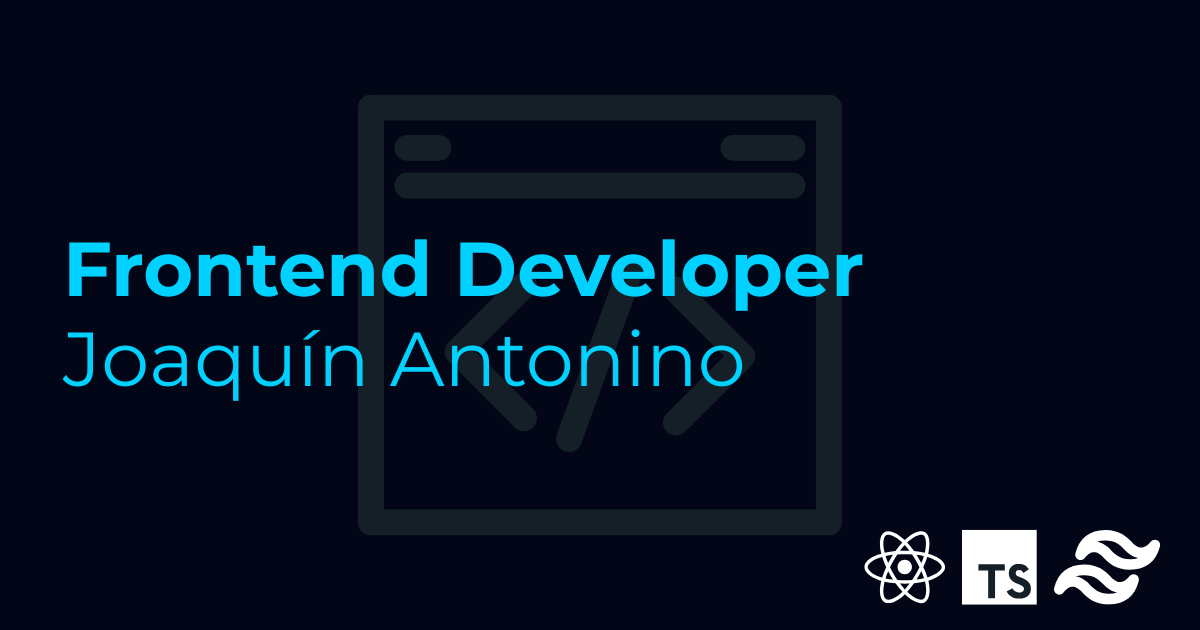
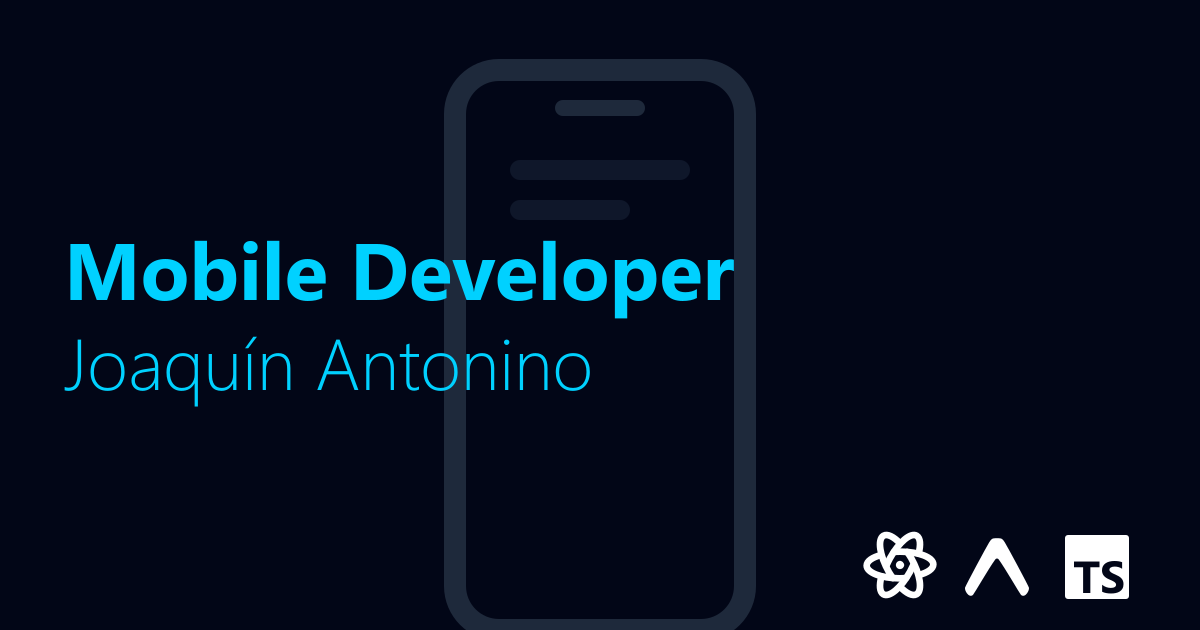
chore: update SEO and OG image for mobile role

Changed region(s): [[0.0308, 0.0905, 0.74, 1.0], [0.7092, 0.8143, 0.9867, 0.9651]]

diff --git a/index.html b/index.html
@@ -5,20 +5,20 @@
     <link rel="icon" type="image/svg+xml" href="/cat.svg" />
     <meta name="viewport" content="width=device-width, initial-scale=1.0" />
 
-    <title>Joaquín Antonino | Frontend Developer</title>
-    <meta name="description" content="Portfolio profesional de Joaquín Antonino, Frontend Developer especializado en React, TypeScript y desarrollo web moderno." />
+    <title>Joaquín Antonino | Mobile Developer</title>
+    <meta name="description" content="Portfolio de Joaquín Antonino, Mobile Developer especializado en React Native, Expo y TypeScript, con experiencia en frontend web con React." />
     <meta name="robots" content="index, follow" />
     <link rel="canonical" href="https://antoninojoaquin.vercel.app/" />
 
     <meta property="og:type" content="website" />
     <meta property="og:url" content="https://antoninojoaquin.vercel.app/" />
-    <meta property="og:title" content="Joaquín Antonino | Frontend Developer" />
-    <meta property="og:description" content="Portfolio profesional de Joaquín Antonino, Frontend Developer especializado en React, TypeScript y desarrollo web moderno." />
+    <meta property="og:title" content="Joaquín Antonino | Mobile Developer" />
+    <meta property="og:description" content="Portfolio de Joaquín Antonino, Mobile Developer especializado en React Native, Expo y TypeScript, con experiencia en frontend web con React." />
     <meta property="og:image" content="https://antoninojoaquin.vercel.app/og-image.png" />
 
     <meta name="twitter:card" content="summary_large_image" />
-    <meta name="twitter:title" content="Joaquín Antonino | Frontend Developer" />
-    <meta name="twitter:description" content="Portfolio profesional de Joaquín Antonino, Frontend Developer especializado en React, TypeScript y desarrollo web moderno." />
+    <meta name="twitter:title" content="Joaquín Antonino | Mobile Developer" />
+    <meta name="twitter:description" content="Portfolio de Joaquín Antonino, Mobile Developer especializado en React Native, Expo y TypeScript, con experiencia en frontend web con React." />
     <meta name="twitter:image" content="https://antoninojoaquin.vercel.app/og-image.png" />
   </head>
   <body>

diff --git a/README.md b/README.md
@@ -1,8 +1,8 @@
 # Portfolio - Antonino Joaquín
 
-Código fuente de mi sitio personal desarrollado con **React**, **TypeScript** y **Tailwind CSS**. Podés ver la versión en vivo en: **[antoninojoaquin.vercel.app](https://antoninojoaquin.vercel.app)**.
+Código fuente de mi sitio personal como **Mobile Developer** (React Native · Expo), desarrollado con **React**, **TypeScript** y **Tailwind CSS**. Podés ver la versión en vivo en: **[antoninojoaquin.vercel.app](https://antoninojoaquin.vercel.app)**.
 
-El proyecto está diseñado con un enfoque minimalista para centralizar mis desarrollos y trayectoria técnica.
+El proyecto está diseñado con un enfoque minimalista para centralizar mis apps móviles, proyectos web y trayectoria técnica.
 
 ![Preview del Portfolio](https://antoninojoaquin.vercel.app/captura-portfolio.png)
 
@@ -11,8 +11,8 @@ El proyecto está diseñado con un enfoque minimalista para centralizar mis desa
 El sitio se estructura en tres secciones clave:
 
 * **Inicio:** Presentación con un *typing effect* dinámico que alterna entre mis roles y un *marquee* que muestra las tecnologías principales.
-* **Proyectos:** Galería de trabajos implementada con *tilted cards* interactivas, destacando proyectos de e-commerce y herramientas de precisión.
-* **Sobre mí:** Espacio dedicado a mi formación académica y mi enfoque en el desarrollo de interfaces eficientes y código limpio.
+* **Proyectos:** Apps móviles (NenaTerm, Los Molinos Mobile, Little Lemon) con capturas en formato celular, y la tienda web de Los Molinos.
+* **Sobre mí:** Mi enfoque en desarrollo mobile, mi formación como estudiante de Análisis de Sistemas y cómo encaro cada producto.
 
 ---
 Si querés contactarme o ver mi perfil profesional, podés encontrarme en **[LinkedIn](https://www.linkedin.com/in/antoninojoaquin/)**.
